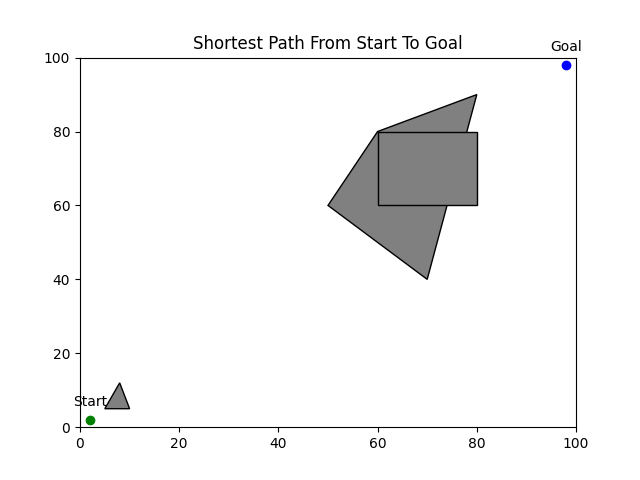
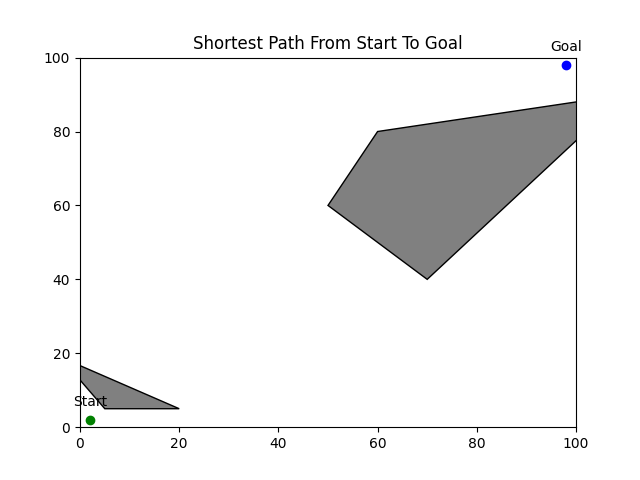
Unify writing of the output path solution

Changed region(s): [[0.5625, 0.1875, 0.9062, 0.5938], [0.125, 0.75, 0.2812, 0.875]]

diff --git a/src/pathfind/main.py b/src/pathfind/main.py
@@ -45,10 +45,9 @@ def main():
         sys.exit(1)
 
     # Save solution to file
-    nodes = [list(t) for t in path]
     try:
         with open(args.output, 'w') as f:
-            f.write(str(nodes))
+            f.write(str(path))
     except Exception as e:
         LOGGER.error(f"Failed to write solution to '{args.output}'. {e}")
         sys.exit(1)

diff --git a/src/pathfind/pathfinder.py b/src/pathfind/pathfinder.py
@@ -66,7 +66,7 @@ class Pathfinder:
         """
         path = []
         while node in parents:
-            path.append(node)
+            path.append(list(map(float, node)))
             node = parents[node]
-        path.append(start)
+        path.append(list(map(float, start)))
         return path[::-1]

diff --git a/README.md b/README.md
@@ -46,9 +46,8 @@ The program operates in two modes based on the provided configuration YAML file:
     x_space_size: 100
     y_space_size: 100
     list_obstacles: [
-        [[5,5], [10,5], [8,12]],
-        [[50,60], [70,40], [80,90], [60,80]],
-        [[60, 60], [60, 80], [80, 80], [80, 60]]
+        [[5,5], [20,5], [-4,19]],
+        [[50,60], [70,40], [110,90], [60,80]]
     ]
     ```
 
@@ -59,7 +58,7 @@ The program operates in two modes based on the provided configuration YAML file:
 
 3. **Output**:
     - The shortest path will be saved to an output file named as passed in the program arguments or to `solution.txt` if no file name was provided.
-        - **Solution Path**: [[2, 2], [10.0, 5.0], [70.0, 40.0], [80.0, 60.0], [98, 98]]
+        - **Solution Path**: [[2.0, 2.0], [20.0, 5.0], [60.0, 80.0], [98.0, 98.0]]
     - Plots of the scene and solution will be saved as `scene.png` and `solution.png` respectively, only if the `--plot` flag is passed.
         - **Scene Plot**:  
         ![Scene Plot](/example/scene.png)
